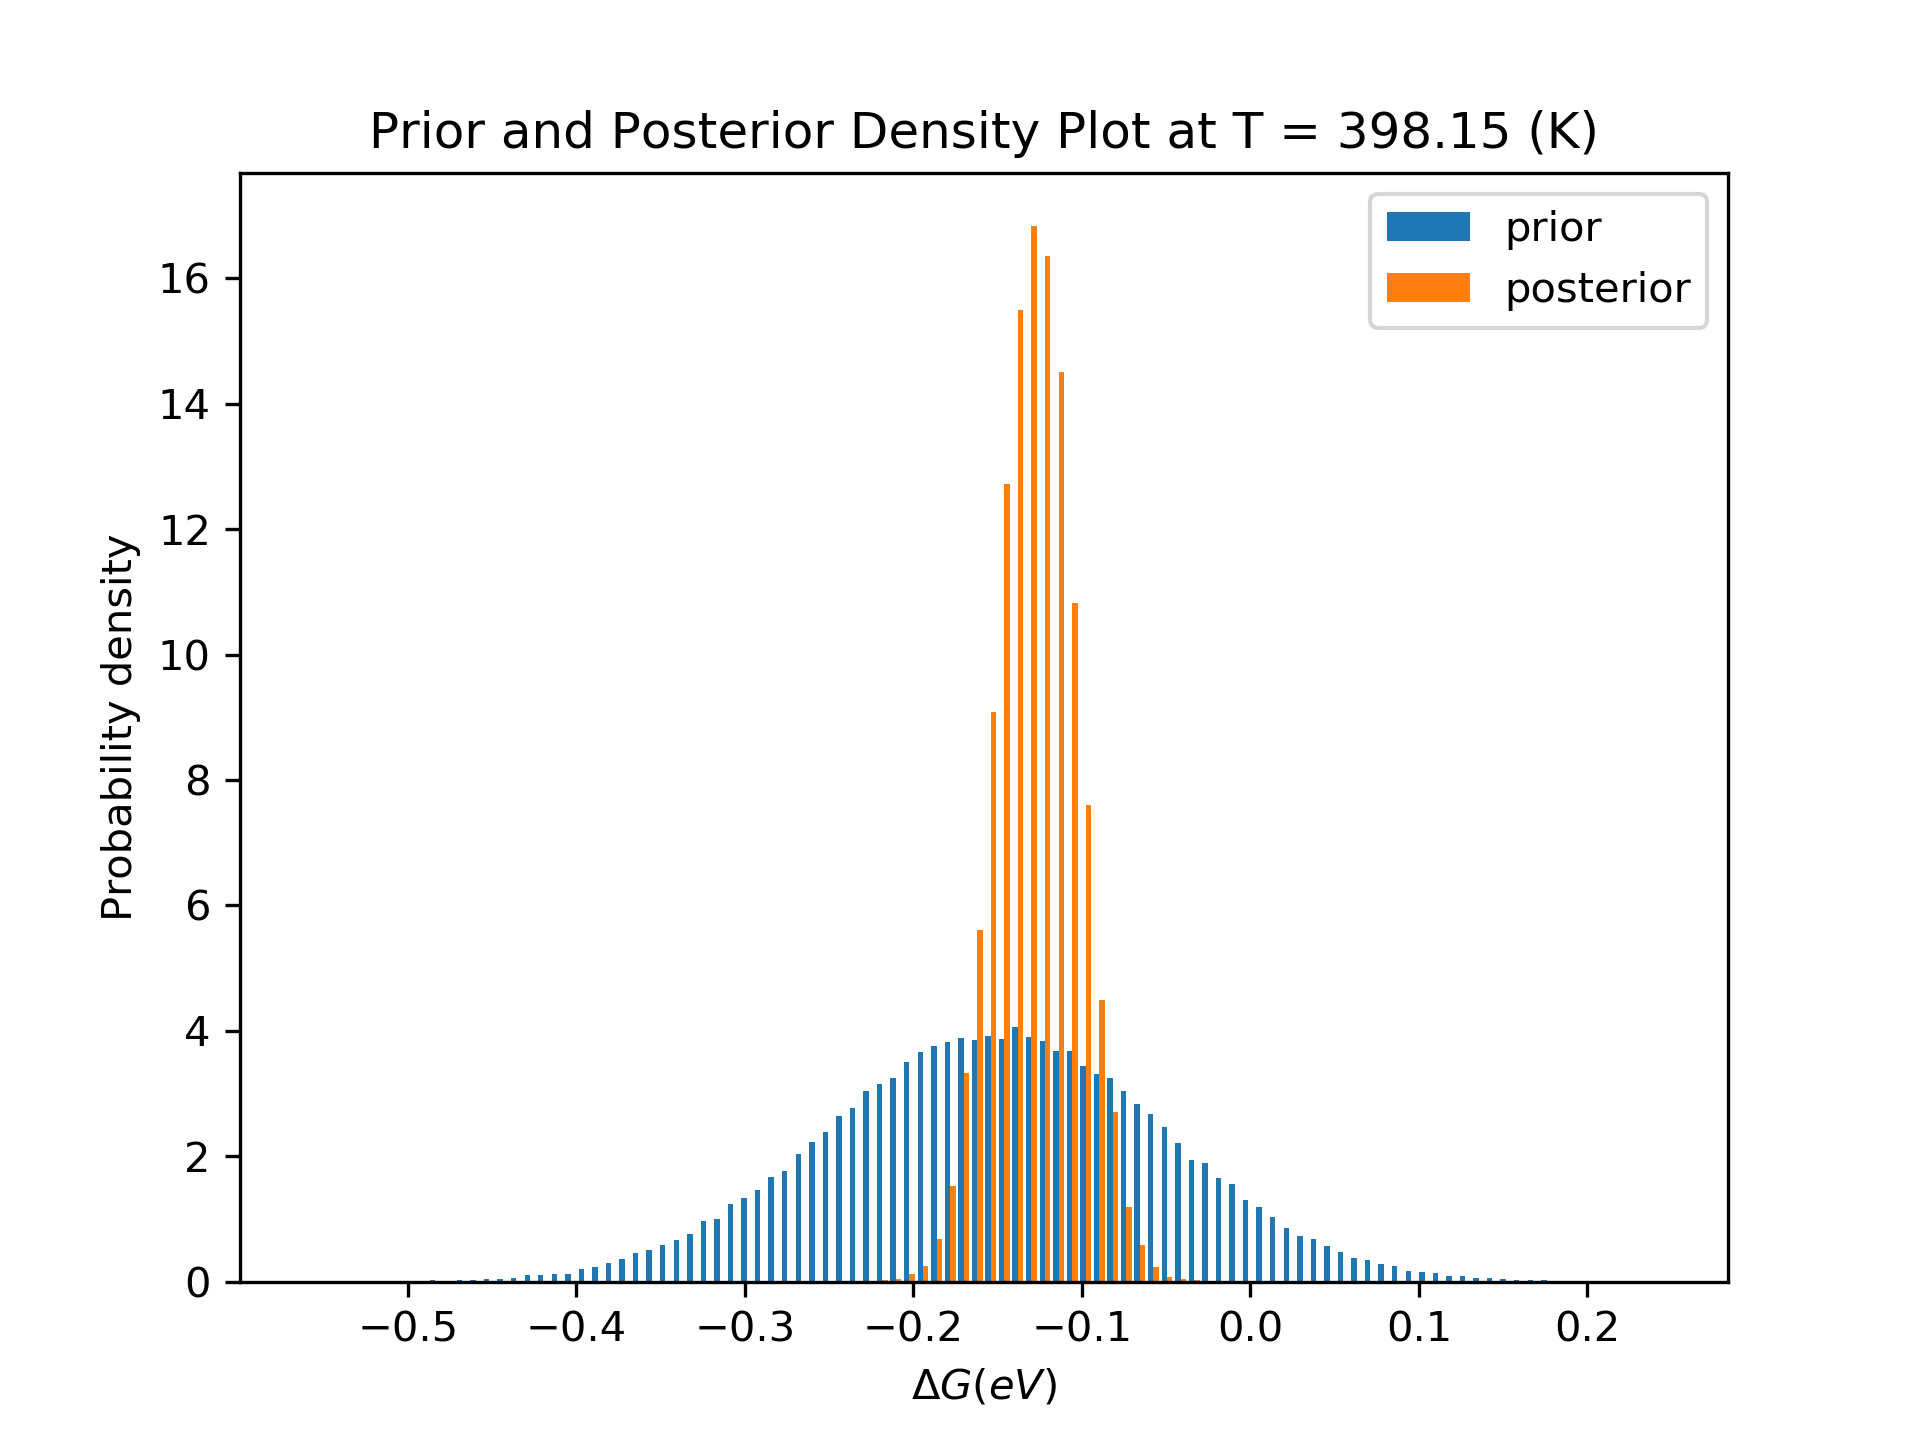
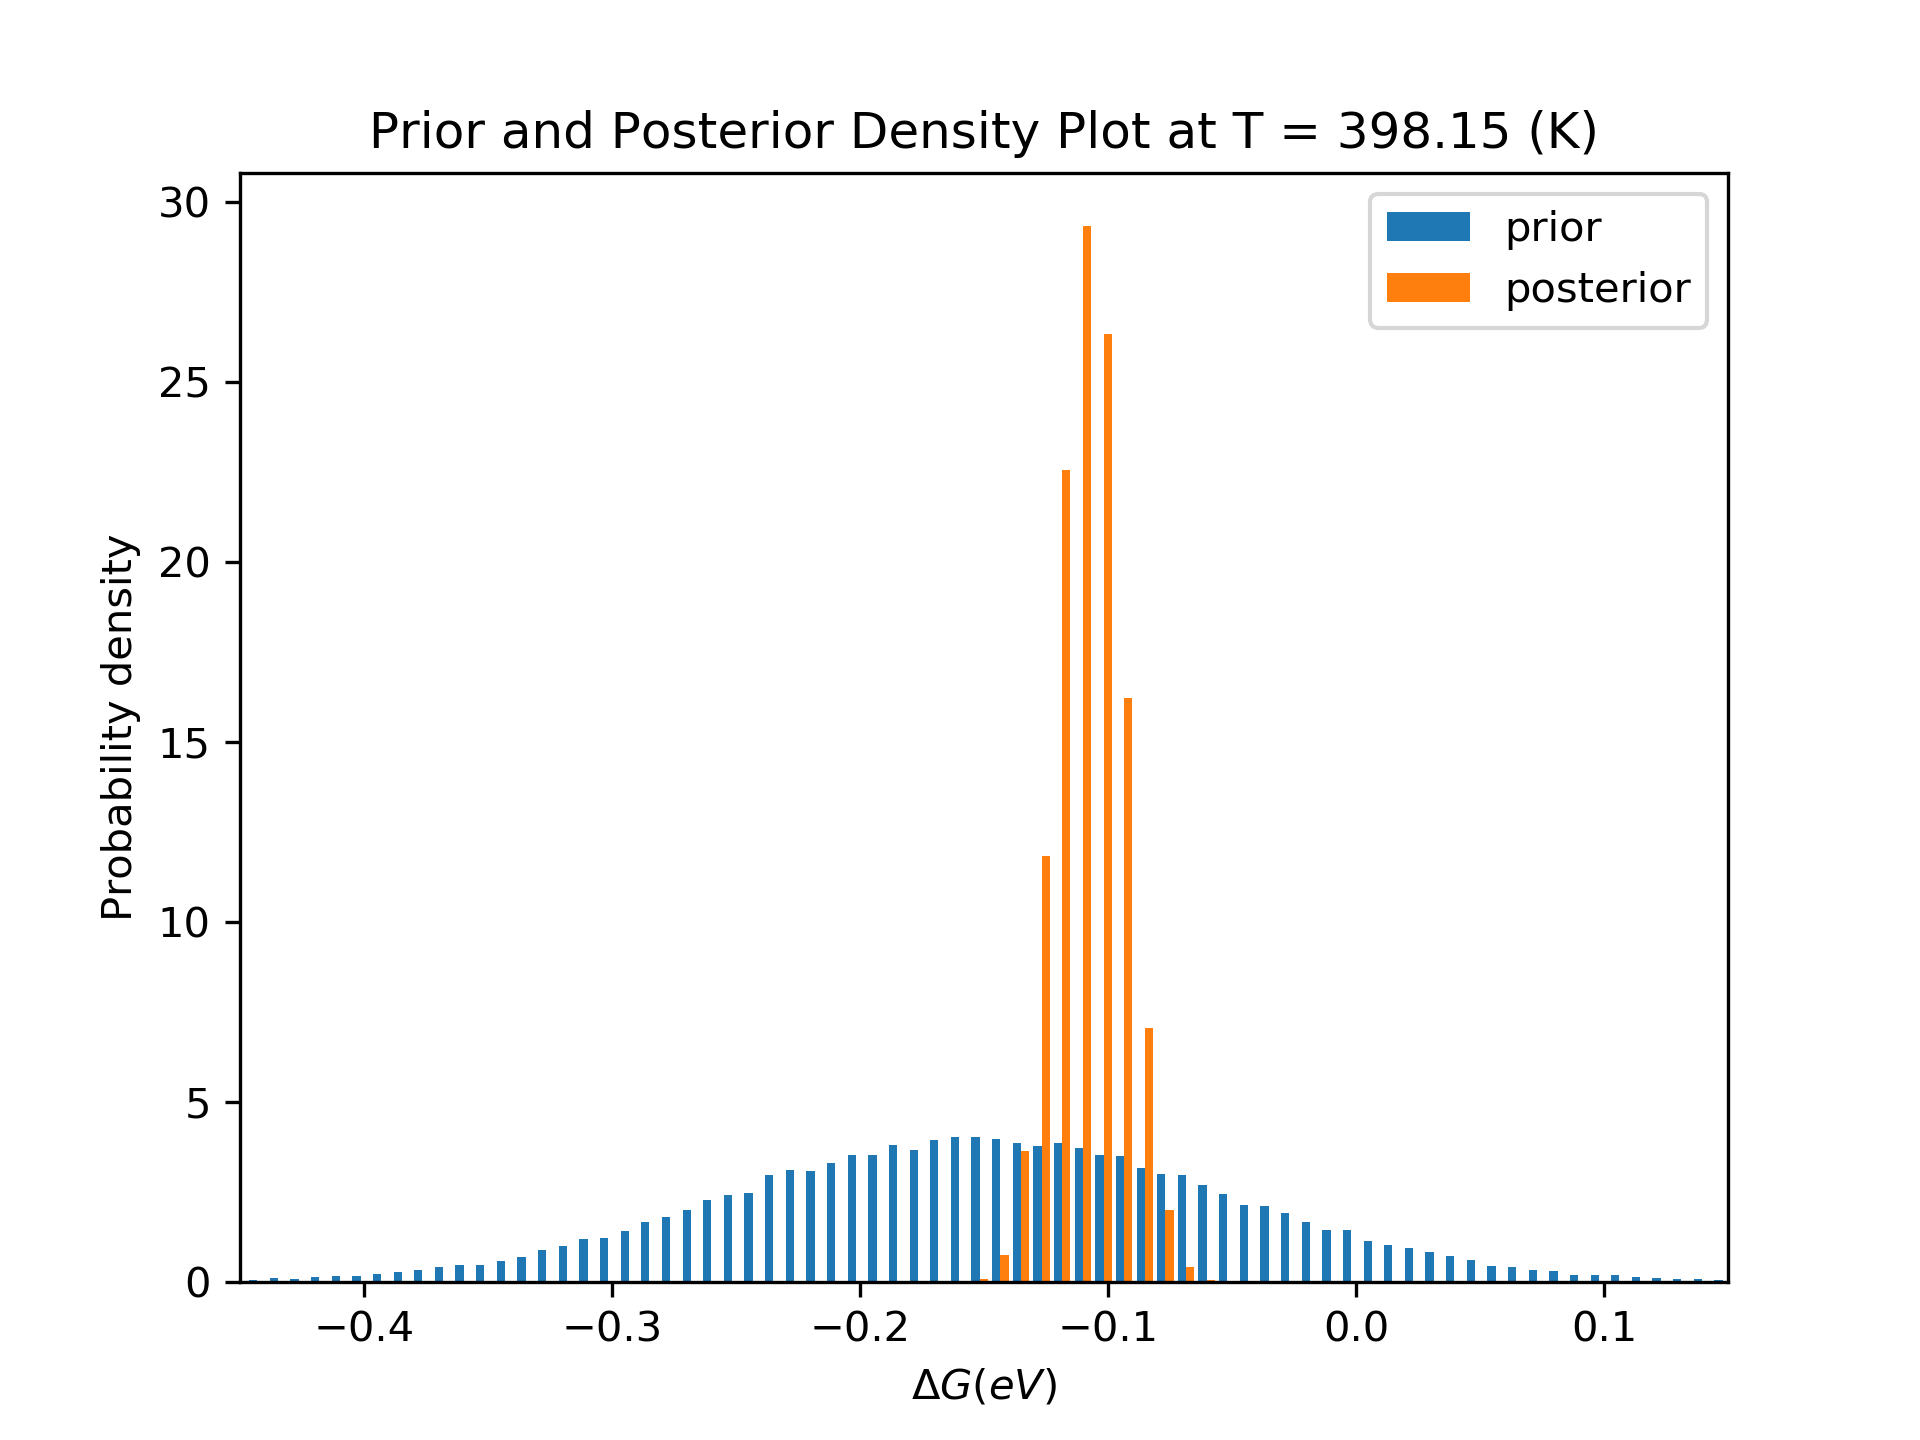
retouches chemical reaction loop
The observed responses uncertainty was lowered to obtain a more clear distinction in posterior as a function of temperature.  The difference between 298.15 and 698.15 is more visible now.

diff --git a/Examples/Example11/runfile_Example11.py b/Examples/Example11/runfile_Example11.py
@@ -11,7 +11,7 @@ if __name__ == "__main__":
     import processing_function_chem_rxn as fun
 
     #UserInput.responses['responses_observed'] = -3.912
-    UserInput.responses['responses_observed_uncertainties'] = 1.0
+    UserInput.responses['responses_observed_uncertainties'] = 0.4
     
     UserInput.simulated_response_plot_settings['x_label'] = r'$Temperature (K)$'
     UserInput.simulated_response_plot_settings['y_label'] = r'$ln(C_A)$'
@@ -34,7 +34,7 @@ if __name__ == "__main__":
     UserInput.parameter_estimation_settings['mcmc_mode'] = 'unbiased'
     UserInput.parameter_estimation_settings['mcmc_random_seed'] = None #Normally set to None so that mcmc is set to be random. To get the same results repeatedly, such as for testing purposes, set the random seed to 0 or another integer for testing purposes.
     UserInput.parameter_estimation_settings['mcmc_burn_in'] = 100
-    UserInput.parameter_estimation_settings['mcmc_length'] = 80100
+    UserInput.parameter_estimation_settings['mcmc_length'] = 50100
     UserInput.parameter_estimation_settings['mcmc_relative_step_length'] = 0.05
     UserInput.parameter_estimation_settings['mcmc_modulate_accept_probability']  = 0 #Default value of 0. Changing this value sharpens or flattens the posterior. A value greater than 1 flattens the posterior by accepting low values more often. It can be useful when greater sampling is more important than accuracy. One way of using this feature is to try with a value of 0, then with the value equal to the number of priors for comparison, and then to gradually decrease this number as low as is useful (to minimize distortion of the result). A downside of changing changing this variable to greater than 1 is that it slows the the ascent to the maximum of the prior, so there is a balance in using it. In contrast, numbers increasingly less than one (such as 0.90 or 0.10) will speed up the ascent to the maximum of the posterior, but will also result in fewer points being retained.
     
@@ -43,31 +43,32 @@ if __name__ == "__main__":
     UserInput.contour_settings_custom['figure_name'] = 'Mumpce_contour_plot_chem_rxn'
     #After making the UserInput, now we make a 'parameter_estimation' object from it.
     global T
-    list_of_T = [298.15,398.15,498.15,598.15,698.15]
+    list_of_T = np.linspace(698.15,298.15,5)#[298.15,398.15,498.15,598.15,698.15]
     kB = 8.61733035E-5 #eV/K\n
-    experiments = np.log(1/(1+(np.exp(-(-0.1)/(kB*np.linspace(298.15,698.15,5))))))
-    PE_object = []
-    prior = np.random.normal(-0.15,0.1,80000)
+    experiments = np.log(1/(1+(np.exp(-(-0.1)/(kB*np.linspace(698.15,298.15,5))))))
+    PE_object_list = []
+    prior = np.random.normal(-0.15,0.1,50000)
 
     for i in range(len(list_of_T)):
         fun.T = list_of_T[i]
         UserInput.responses['responses_observed'] = experiments[i]
-        PE_object.append(CKPQ.parameter_estimation(UserInput))
+        PE_object_list.append(CKPQ.parameter_estimation(UserInput))
     
         #Now we do parameter estimation.
         #PE_object.doGridSearch('getLogP', verbose = False)
-        PE_object[i].doMetropolisHastings()
+        PE_object_list[i].doMetropolisHastings()
         #PE_object.doOptimizeNegLogP(method="BFGS", printOptimum=True, verbose=True)
         #[map_parameter_set, muap_parameter_set, stdap_parameter_set, evidence, info_gain, samples, samples_simulatedOutputs, logP] = PE_object.doMetropolisHastings()
     
-        PE_object[i].createAllPlots() #This function calls each of the below functions.
+        PE_object_list[i].createAllPlots() #This function calls each of the below functions.
    #    PE_object.makeHistogramsForEachParameter()    
    #    PE_object.makeSamplingScatterMatrixPlot()
    #    PE_object.createSimulatedResponsesPlot()
    #TODO: call the mum_pce plotting objects, which will be PE_object.createContourGraphs() or something like that.
         fig, ax = plt.subplots()
-        (density0,bins0,pathces0)=ax.hist([prior,PE_object[i].post_burn_in_samples.flatten()],bins=100,label=['prior','posterior'],density=True)
+        (density0,bins0,pathces0)=ax.hist([prior,PE_object_list[i].post_burn_in_samples.flatten()],bins=100,label=['prior','posterior'],density=True)
         ax.legend()
+        ax.set_xlim([-0.45, 0.15])
         ax.set_xlabel(r'$\Delta G (eV)$')
         ax.set_ylabel('Probability density')
         ax.set_title('Prior and Posterior Density Plot at T = {} (K)'.format(str(list_of_T[i])))

diff --git a/CheKiPEUQ/InverseProblem.py b/CheKiPEUQ/InverseProblem.py
@@ -828,7 +828,7 @@ def littleEulerUncertaintyPropagation(dydt_uncertainties, t_values, initial_y_un
     for index in range(len(dydt_uncertainties)-1): #The uncertainty for each next point is propagated through the uncertainty of the current value and the delta_t*(dy/dt uncertainty), since we are adding two values.
         deltat_resolution = t_values[index+1]-t_values[index]
         y_uncertainties[index+1] = ((y_uncertainties[index])**2+(dydt_uncertainties[index]*deltat_resolution)**2)**0.5
-    #forceNonzeroInitialUncertainty==True:
+    if forceNonzeroInitialUncertainty==True:
         if initial_y_uncertainty == 0: #Errors are caused if initial_y_uncertainty is left as zero, so we take the next uncertainty as an assumption for a reasonable base estimate of the initial point uncertainty.
             y_uncertainties[0] = y_uncertainties[1]   
     return y_uncertainties
